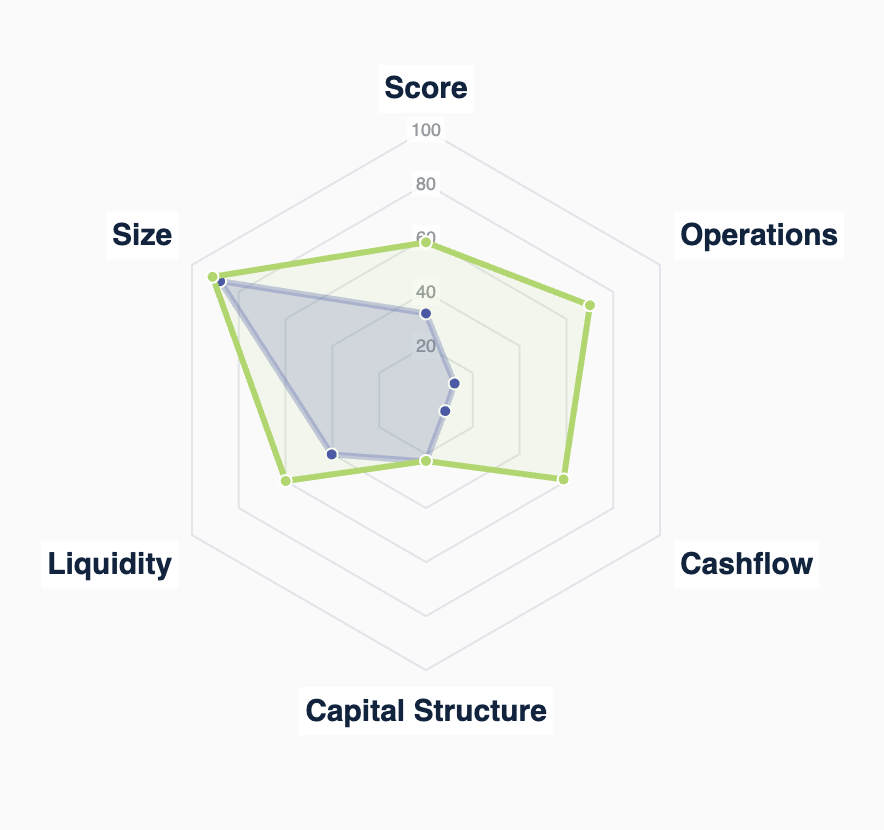
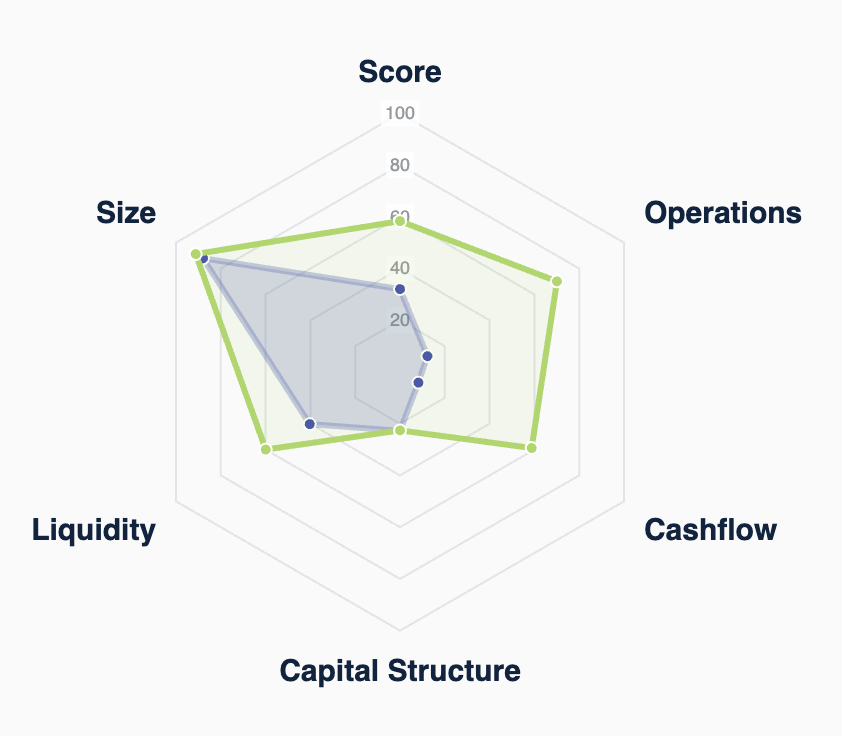
disabled the label backdrop color

diff --git a/src/spiderData.ts b/src/spiderData.ts
@@ -98,7 +98,7 @@ function getRadarOptions(): ChartOptions {
         },
         pointLabels: {
           color: '#0B243F',
-          backdropColor: '#fff',
+        //   backdropColor: '#fff',
           font: {
             family: 'Suisse, sans-serif',
             weight: 'bold',
